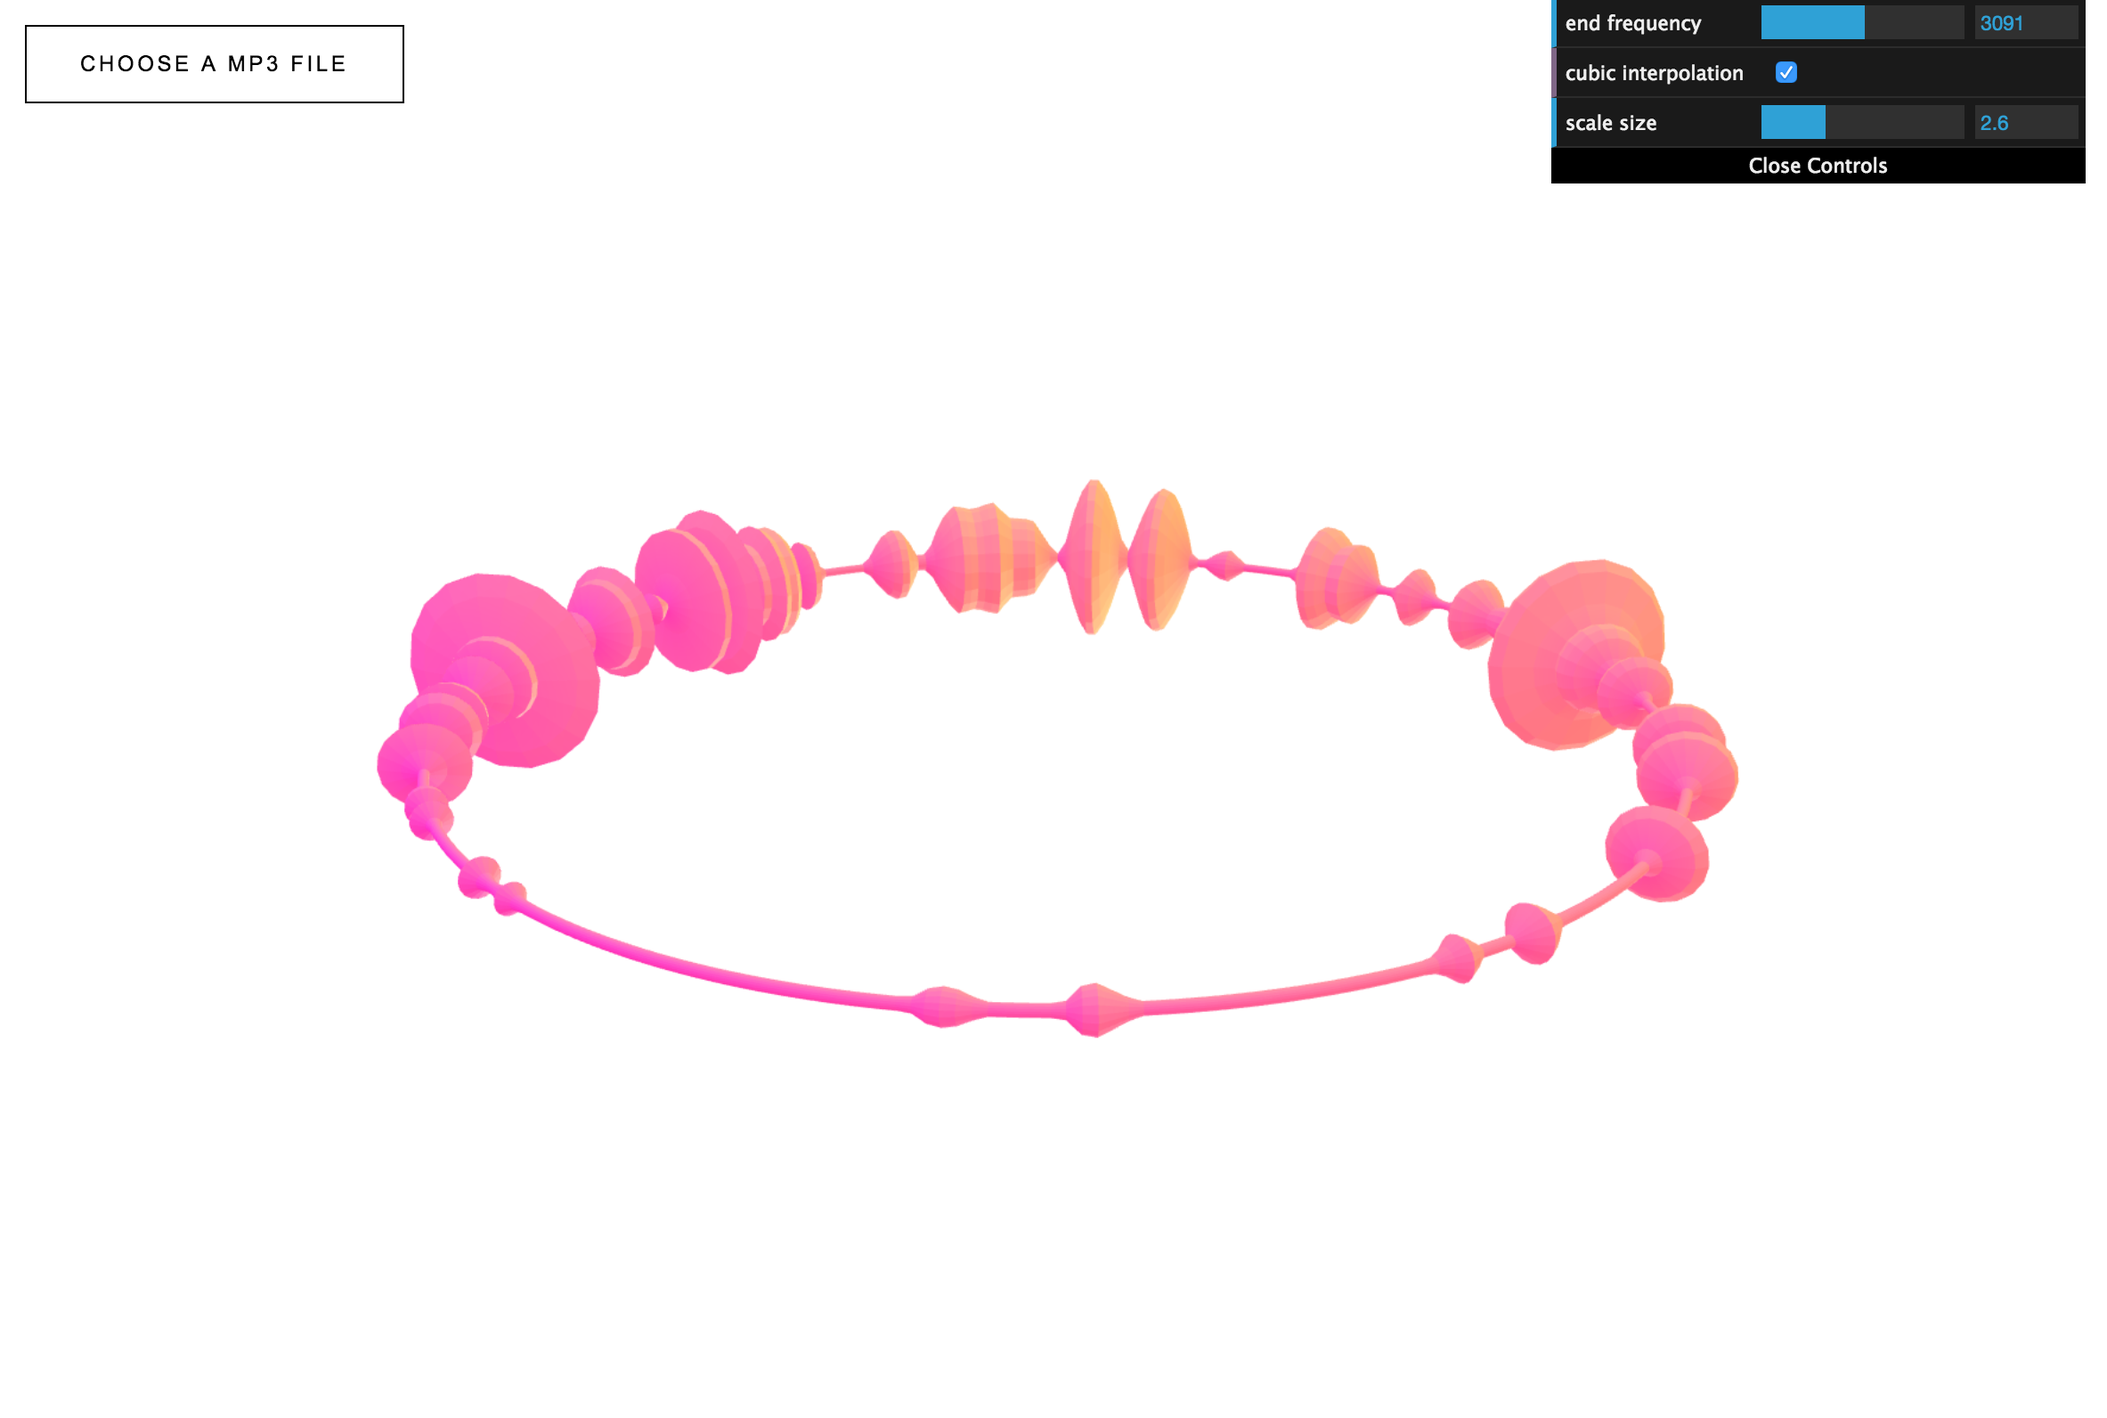
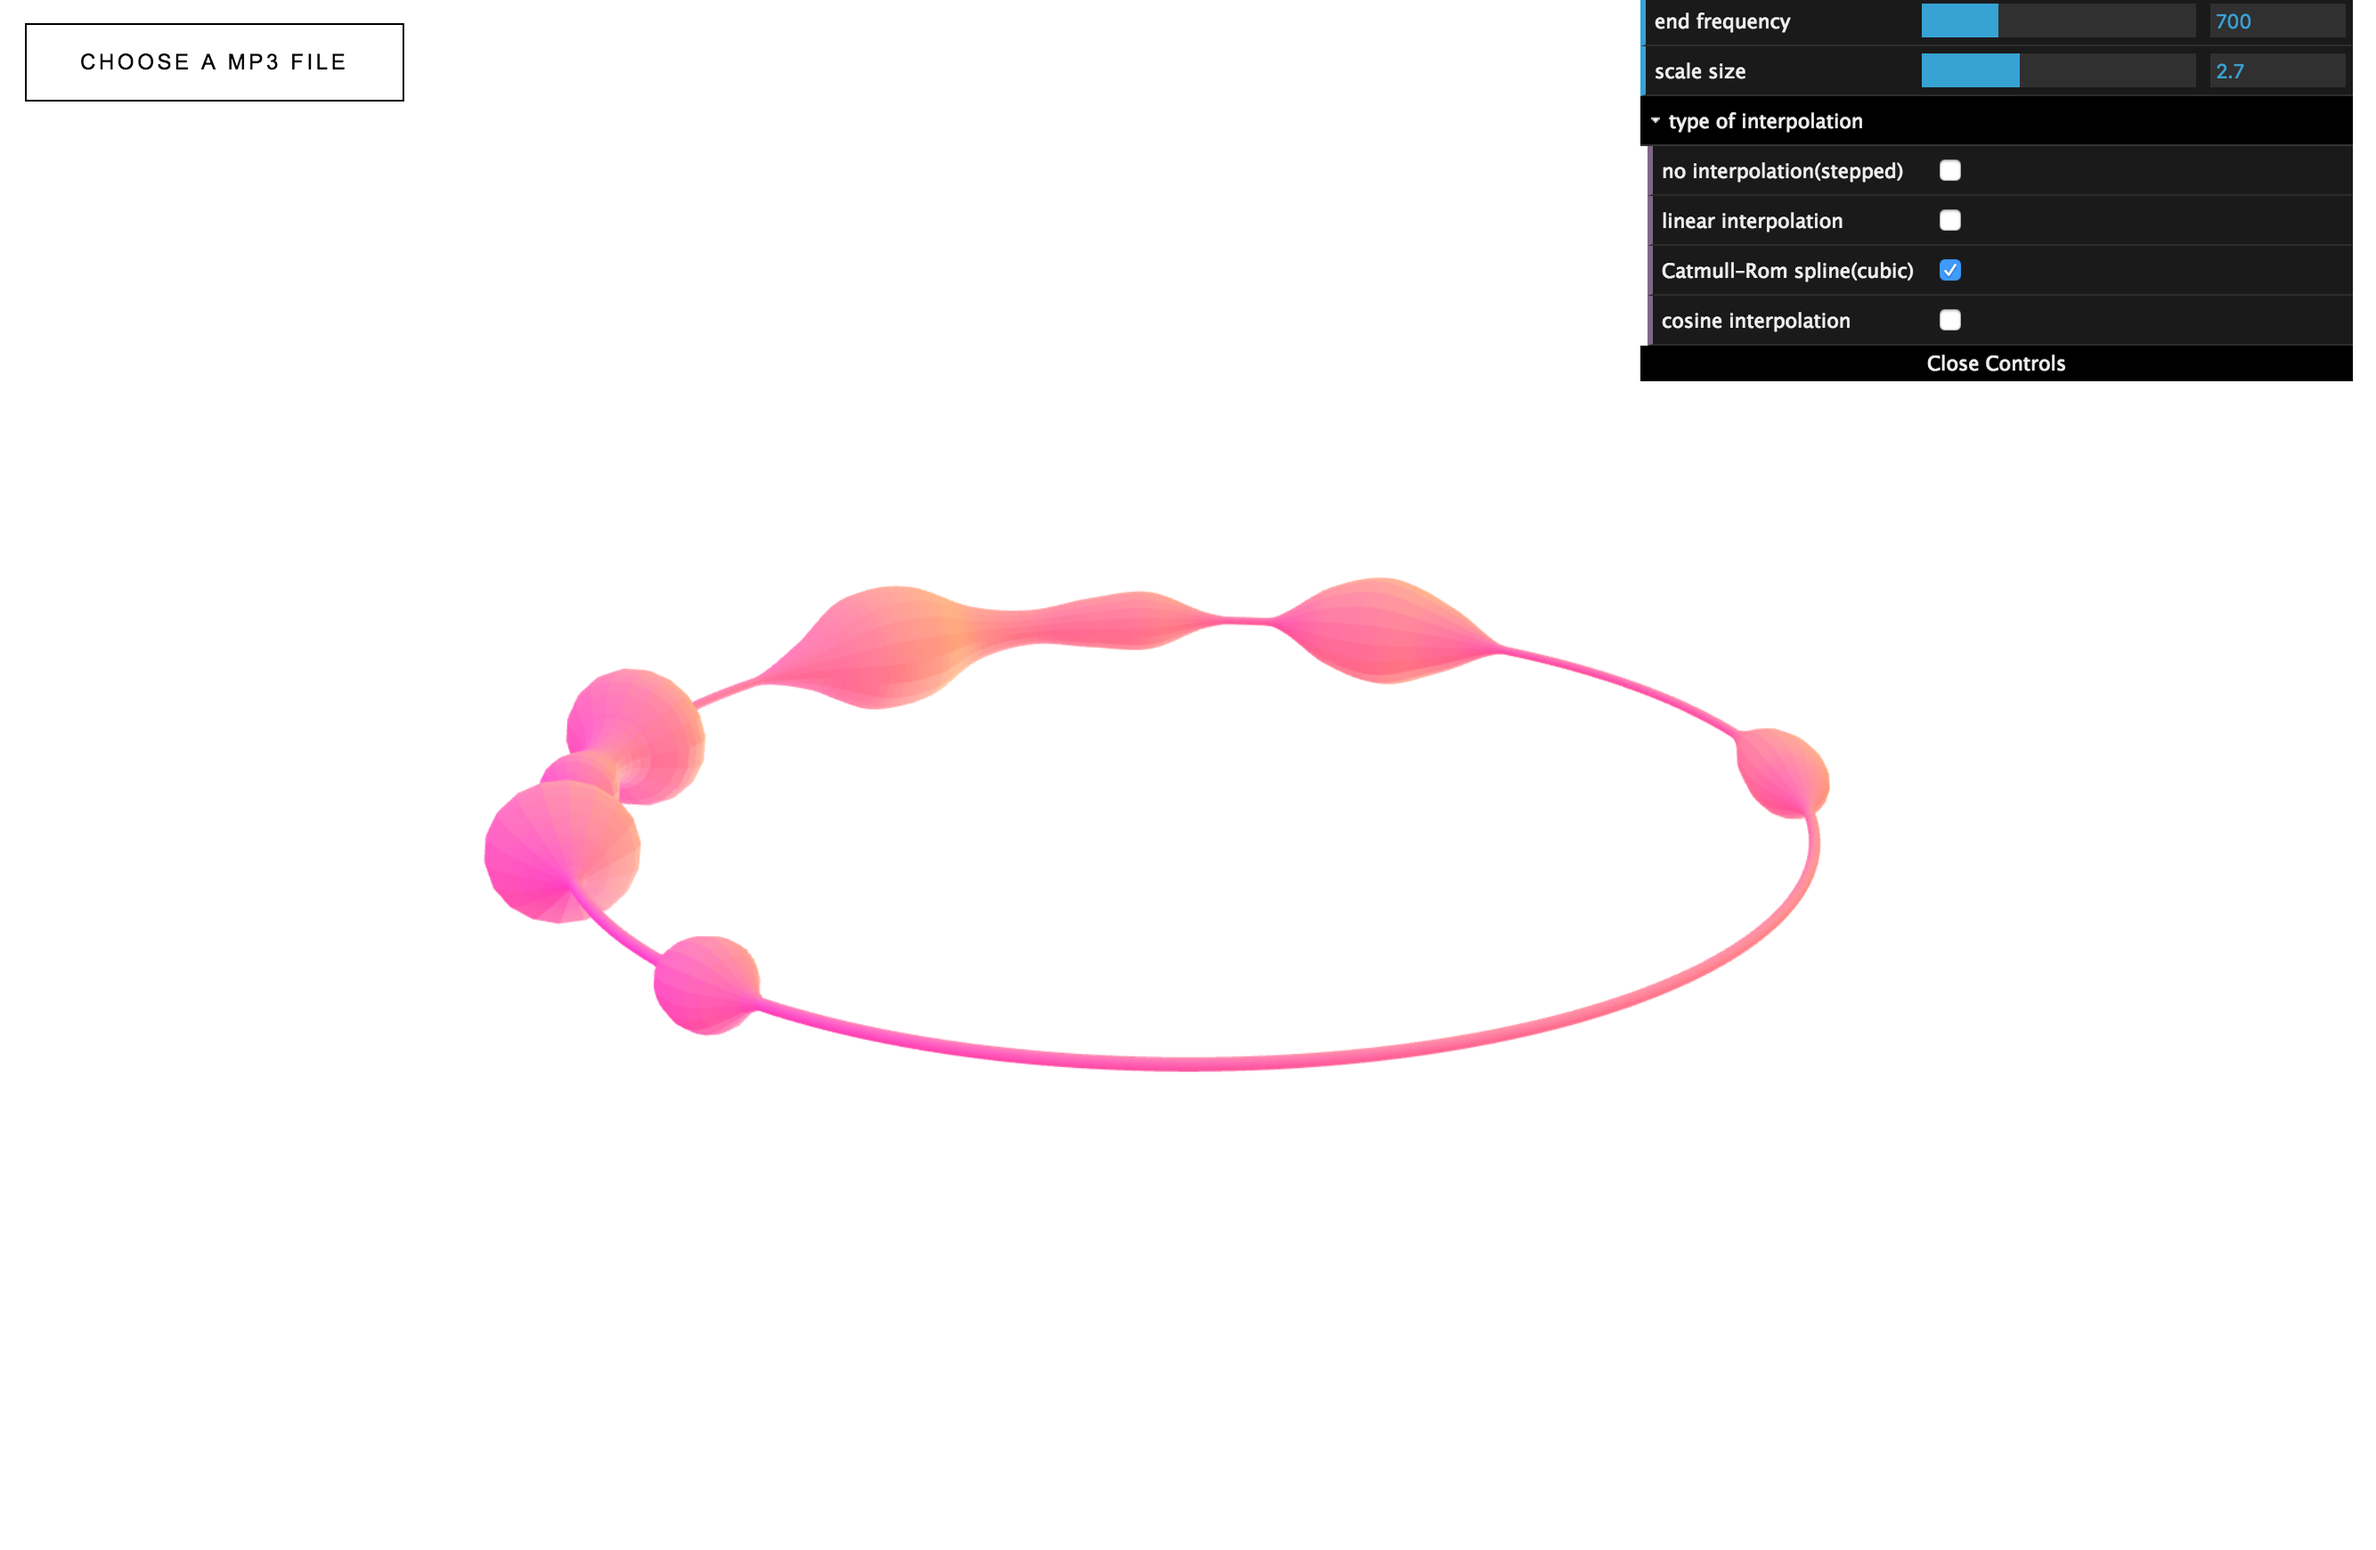
add other interpolation versions

diff --git a/dst/assets/js/main.min.js b/dst/assets/js/main.min.js
@@ -1083,7 +1083,18 @@ var Analyzer = (function () {
 
       var mu = i * interval - n1;
 
-      var targetFrequency = this.controls.props.isCubic ? this.cubic(mu, p0, p1, p2, p3) : this.linear(mu, p1, p2);
+      var targetFrequency = undefined;
+
+      // interpolation
+      if (this.controls.props.isCubic) {
+        targetFrequency = this.cubic(mu, p0, p1, p2, p3);
+      } else if (this.controls.props.isLinear) {
+        targetFrequency = this.linear(mu, p1, p2);
+      } else if (this.controls.props.isNo) {
+        targetFrequency = p1;
+      } else if (this.controls.props.isCosine) {
+        targetFrequency = this.cosine(mu, p1, p2);
+      }
 
       targetFrequency = Math.max(0, targetFrequency);
       this.frequencyArray.push(targetFrequency * this.controls.props.scaleSize / 10);
@@ -1104,6 +1115,38 @@ var Analyzer = (function () {
     value: function linear(mu, p1, p2) {
       return p1 * (1 - mu) + p2 * mu;
     }
+  }, {
+    key: "cosine",
+    value: function cosine(mu, p1, p2) {
+      var mu2 = undefined;
+
+      mu2 = (1 - Math.cos(mu * Math.PI)) / 2;
+      return p1 * (1 - mu2) + p2 * mu2;
+    }
+
+    // hermite(mu, p0, p1, p2, p3){
+    //   const tension = 0;
+    //   const bias = 0;
+
+    //   let m0,m1,mu2,mu3;
+    //   let a0,a1,a2,a3;
+
+    //   mu2 = mu * mu;
+    //   mu3 = mu2 * mu;
+
+    //   m0  = (p1 - p0) * (1 + bias) * (1 - tension) / 2;
+    //   m0 += (p2 - p1) * (1 - bias) * (1 - tension) / 2;
+    //   m1  = (p2 - p1) * (1 + bias) * (1 - tension) / 2;
+    //   m1 += (p3 - p2) * (1 - bias) * (1 - tension) / 2;
+
+    //   a0 =  2 * mu3 - 3 * mu2 + 1;
+    //   a1 =  mu3 - 2 * mu2 + mu;
+    //   a2 =  mu3 - mu2;
+    //   a3 = - 2 * mu3 + 3 * mu2;
+
+    //  return a0 * p1 + a1 * m0 + a2 * m1 + a3 * p2;
+    // }
+
   }]);
 
   return Analyzer;
@@ -1190,29 +1233,86 @@ var Controls = (function () {
     this.props = {
       // start: 1,
       end: 700,
+      scaleSize: 2.7,
+
+      isNo: false,
+      isLinear: false,
       isCubic: true,
-      scaleSize: 2.7
+      isCosine: false,
+      isHermite: false
     };
+
     this.init();
   }
 
   _createClass(Controls, [{
     key: "init",
     value: function init() {
-      this.gui = new dat.GUI({ width: 300 });
+      this.gui = new dat.GUI({ width: 400 });
       // this.gui.remember(this.controls);
 
       // this.gui.add(this.props, "start", 1, 90).name("start frequency").onChange(this.changeFunc.bind(this));
-      this.gui.add(this.props, "end", 200, 2000).name("end frequency").onChange(this.changeFunc.bind(this));
-      this.gui.add(this.props, "isCubic").name("cubic interpolation");
+      this.gui.add(this.props, "end", 200, 2000).name("end frequency").onChange(this.changeFreq.bind(this));
       this.gui.add(this.props, "scaleSize", 1 / 7 * 10, 1 / 2 * 10).name("scale size");
+
+      this.gui_type = this.gui.addFolder('type of interpolation');
+      this.gui_type.open();
+      this.gui_type.add(this.props, "isNo").name("no interpolation(stepped)").listen().onChange(this.changeType1.bind(this));
+      this.gui_type.add(this.props, "isLinear").name("linear interpolation").listen().onChange(this.changeType2.bind(this));
+      this.gui_type.add(this.props, "isCubic").name("Catmull–Rom spline(cubic)").listen().onChange(this.changeType3.bind(this));
+      this.gui_type.add(this.props, "isCosine").name("cosine interpolation").listen().onChange(this.changeType4.bind(this));
+      // this.gui_type.add(this.props, "isHermite").name("hermite interpolation").listen().onChange(this.changeType5.bind(this));
     }
   }, {
-    key: "changeFunc",
-    value: function changeFunc(value) {
+    key: "changeFreq",
+    value: function changeFreq(value) {
 
       this.analyzer.setRange();
     }
+  }, {
+    key: "changeType1",
+    value: function changeType1() {
+      this.props.isNo = true;
+      this.props.isLinear = false;
+      this.props.isCubic = false;
+      this.props.isCosine = false;
+      // this.props.isHermite = false;
+    }
+  }, {
+    key: "changeType2",
+    value: function changeType2() {
+      this.props.isNo = false;
+      this.props.isLinear = true;
+      this.props.isCubic = false;
+      this.props.isCosine = false;
+      // this.props.isHermite = false;
+    }
+  }, {
+    key: "changeType3",
+    value: function changeType3() {
+      this.props.isNo = false;
+      this.props.isLinear = false;
+      this.props.isCubic = true;
+      this.props.isCosine = false;
+      // this.props.isHermite = false;
+    }
+  }, {
+    key: "changeType4",
+    value: function changeType4() {
+      this.props.isNo = false;
+      this.props.isLinear = false;
+      this.props.isCubic = false;
+      this.props.isCosine = true;
+      // this.props.isHermite = false;
+    }
+
+    // changeType5(){
+    //   this.props.isNo = false;
+    //   this.props.isLinear = false;
+    //   this.props.isCubic = false;
+    //   this.props.isCosine = false;
+    //   this.props.isHermite = true;
+    // }
   }]);
 
   return Controls;

diff --git a/src/assets/js/module/controls.js b/src/assets/js/module/controls.js
@@ -4,26 +4,81 @@ class Controls{
     this.props = {
       // start: 1,
       end: 700,
+      scaleSize: 2.7,
+
+      isNo: false,
+      isLinear: false,
       isCubic: true,
-      scaleSize: 2.7
+      isCosine: false,
+      isHermite: false
     };
+
     this.init();
   }
 
   init(){
-    this.gui = new dat.GUI({width: 300});
+    this.gui = new dat.GUI({width: 400});
     // this.gui.remember(this.controls);
 
     // this.gui.add(this.props, "start", 1, 90).name("start frequency").onChange(this.changeFunc.bind(this));
-    this.gui.add(this.props, "end", 200, 2000).name("end frequency").onChange(this.changeFunc.bind(this));
-    this.gui.add(this.props, "isCubic").name("cubic interpolation");
+    this.gui.add(this.props, "end", 200, 2000).name("end frequency").onChange(this.changeFreq.bind(this));
     this.gui.add(this.props, "scaleSize", 1/7 * 10, 1/2 * 10).name("scale size");
+
+    this.gui_type = this.gui.addFolder('type of interpolation');
+    this.gui_type.open();
+    this.gui_type.add(this.props, "isNo").name("no interpolation(stepped)").listen().onChange(this.changeType1.bind(this));
+    this.gui_type.add(this.props, "isLinear").name("linear interpolation").listen().onChange(this.changeType2.bind(this));
+    this.gui_type.add(this.props, "isCubic").name("Catmull–Rom spline(cubic)").listen().onChange(this.changeType3.bind(this));
+    this.gui_type.add(this.props, "isCosine").name("cosine interpolation").listen().onChange(this.changeType4.bind(this));
+    // this.gui_type.add(this.props, "isHermite").name("hermite interpolation").listen().onChange(this.changeType5.bind(this));
   }
 
-  changeFunc(value){
+  changeFreq(value){
 
     this.analyzer.setRange();
     
   }
-  
+
+  changeType1(){
+    this.props.isNo = true;
+    this.props.isLinear = false;
+    this.props.isCubic = false;
+    this.props.isCosine = false;
+    // this.props.isHermite = false;
+  }
+
+  changeType2(){
+    this.props.isNo = false;
+    this.props.isLinear = true;
+    this.props.isCubic = false;
+    this.props.isCosine = false;
+    // this.props.isHermite = false;
+  }
+
+  changeType3(){
+    this.props.isNo = false;
+    this.props.isLinear = false;
+    this.props.isCubic = true;
+    this.props.isCosine = false;
+    // this.props.isHermite = false;
+
+
+  }
+
+  changeType4(){
+    this.props.isNo = false;
+    this.props.isLinear = false;
+    this.props.isCubic = false;
+    this.props.isCosine = true;
+    // this.props.isHermite = false;
+
+  }
+
+  // changeType5(){
+  //   this.props.isNo = false;
+  //   this.props.isLinear = false;
+  //   this.props.isCubic = false;
+  //   this.props.isCosine = false;
+  //   this.props.isHermite = true;
+  // }
 }

diff --git a/src/assets/js/module/analyzer.js b/src/assets/js/module/analyzer.js
@@ -113,8 +113,19 @@ class Analyzer{
     let p3 = this.adjustFrequency(n3, this.avr);
     
     let mu = i * interval - n1;
-    
-    let targetFrequency = (this.controls.props.isCubic) ? this.cubic(mu, p0, p1, p2, p3) : this.linear(mu, p1, p2);
+
+    let targetFrequency;
+
+    // interpolation
+    if(this.controls.props.isCubic){
+      targetFrequency = this.cubic(mu, p0, p1, p2, p3);
+    } else if(this.controls.props.isLinear){
+      targetFrequency = this.linear(mu, p1, p2);
+    } else if(this.controls.props.isNo){
+      targetFrequency = p1;
+    } else if(this.controls.props.isCosine){
+      targetFrequency = this.cosine(mu, p1, p2);
+    }
 
     targetFrequency = Math.max(0, targetFrequency);
     this.frequencyArray.push(targetFrequency * this.controls.props.scaleSize / 10);
@@ -133,5 +144,35 @@ class Analyzer{
   linear(mu, p1, p2){
     return p1 * (1 - mu) + p2 * mu;
   }
+
+  cosine(mu, p1, p2){
+     let mu2;
+
+     mu2 = (1 - Math.cos( mu * Math.PI)) / 2;
+     return (p1 * (1 - mu2) + p2 * mu2);
+  }
+
+  // hermite(mu, p0, p1, p2, p3){
+  //   const tension = 0;
+  //   const bias = 0;
+
+  //   let m0,m1,mu2,mu3;
+  //   let a0,a1,a2,a3;
+
+  //   mu2 = mu * mu;
+  //   mu3 = mu2 * mu;
+
+  //   m0  = (p1 - p0) * (1 + bias) * (1 - tension) / 2;
+  //   m0 += (p2 - p1) * (1 - bias) * (1 - tension) / 2;
+  //   m1  = (p2 - p1) * (1 + bias) * (1 - tension) / 2;
+  //   m1 += (p3 - p2) * (1 - bias) * (1 - tension) / 2;
+
+  //   a0 =  2 * mu3 - 3 * mu2 + 1;
+  //   a1 =  mu3 - 2 * mu2 + mu;
+  //   a2 =  mu3 - mu2;
+  //   a3 = - 2 * mu3 + 3 * mu2;
+
+  //  return a0 * p1 + a1 * m0 + a2 * m1 + a3 * p2;
+  // }
 
 }

diff --git a/README.md b/README.md
@@ -1,12 +1,12 @@
 # audio-visualizer-torus
 
 ## Description
-The demo of audio visualizer using cubic spline interpolation.  
+The demo of audio visualizer using cubic interpolation.  
 
 * [demo](https://mnmxmx.github.io/audio-visualizer-torus/dst/)  
-* about [cubic spline interpolation](http://www.paulinternet.nl/?page=bicubic)  
+* about [interpolation](http://paulbourke.net/miscellaneous/interpolation/)  
+[<img src="./screenshot1.png" width="50%">](./screenshot1.png) 
 [<img src="./screenshot2.png" width="50%">](./screenshot2.png) 
-[<img src="./screenshot1.png" width="50%">](./screenshot2.png) 
 
 ## Usage  
 * Clone repository  
